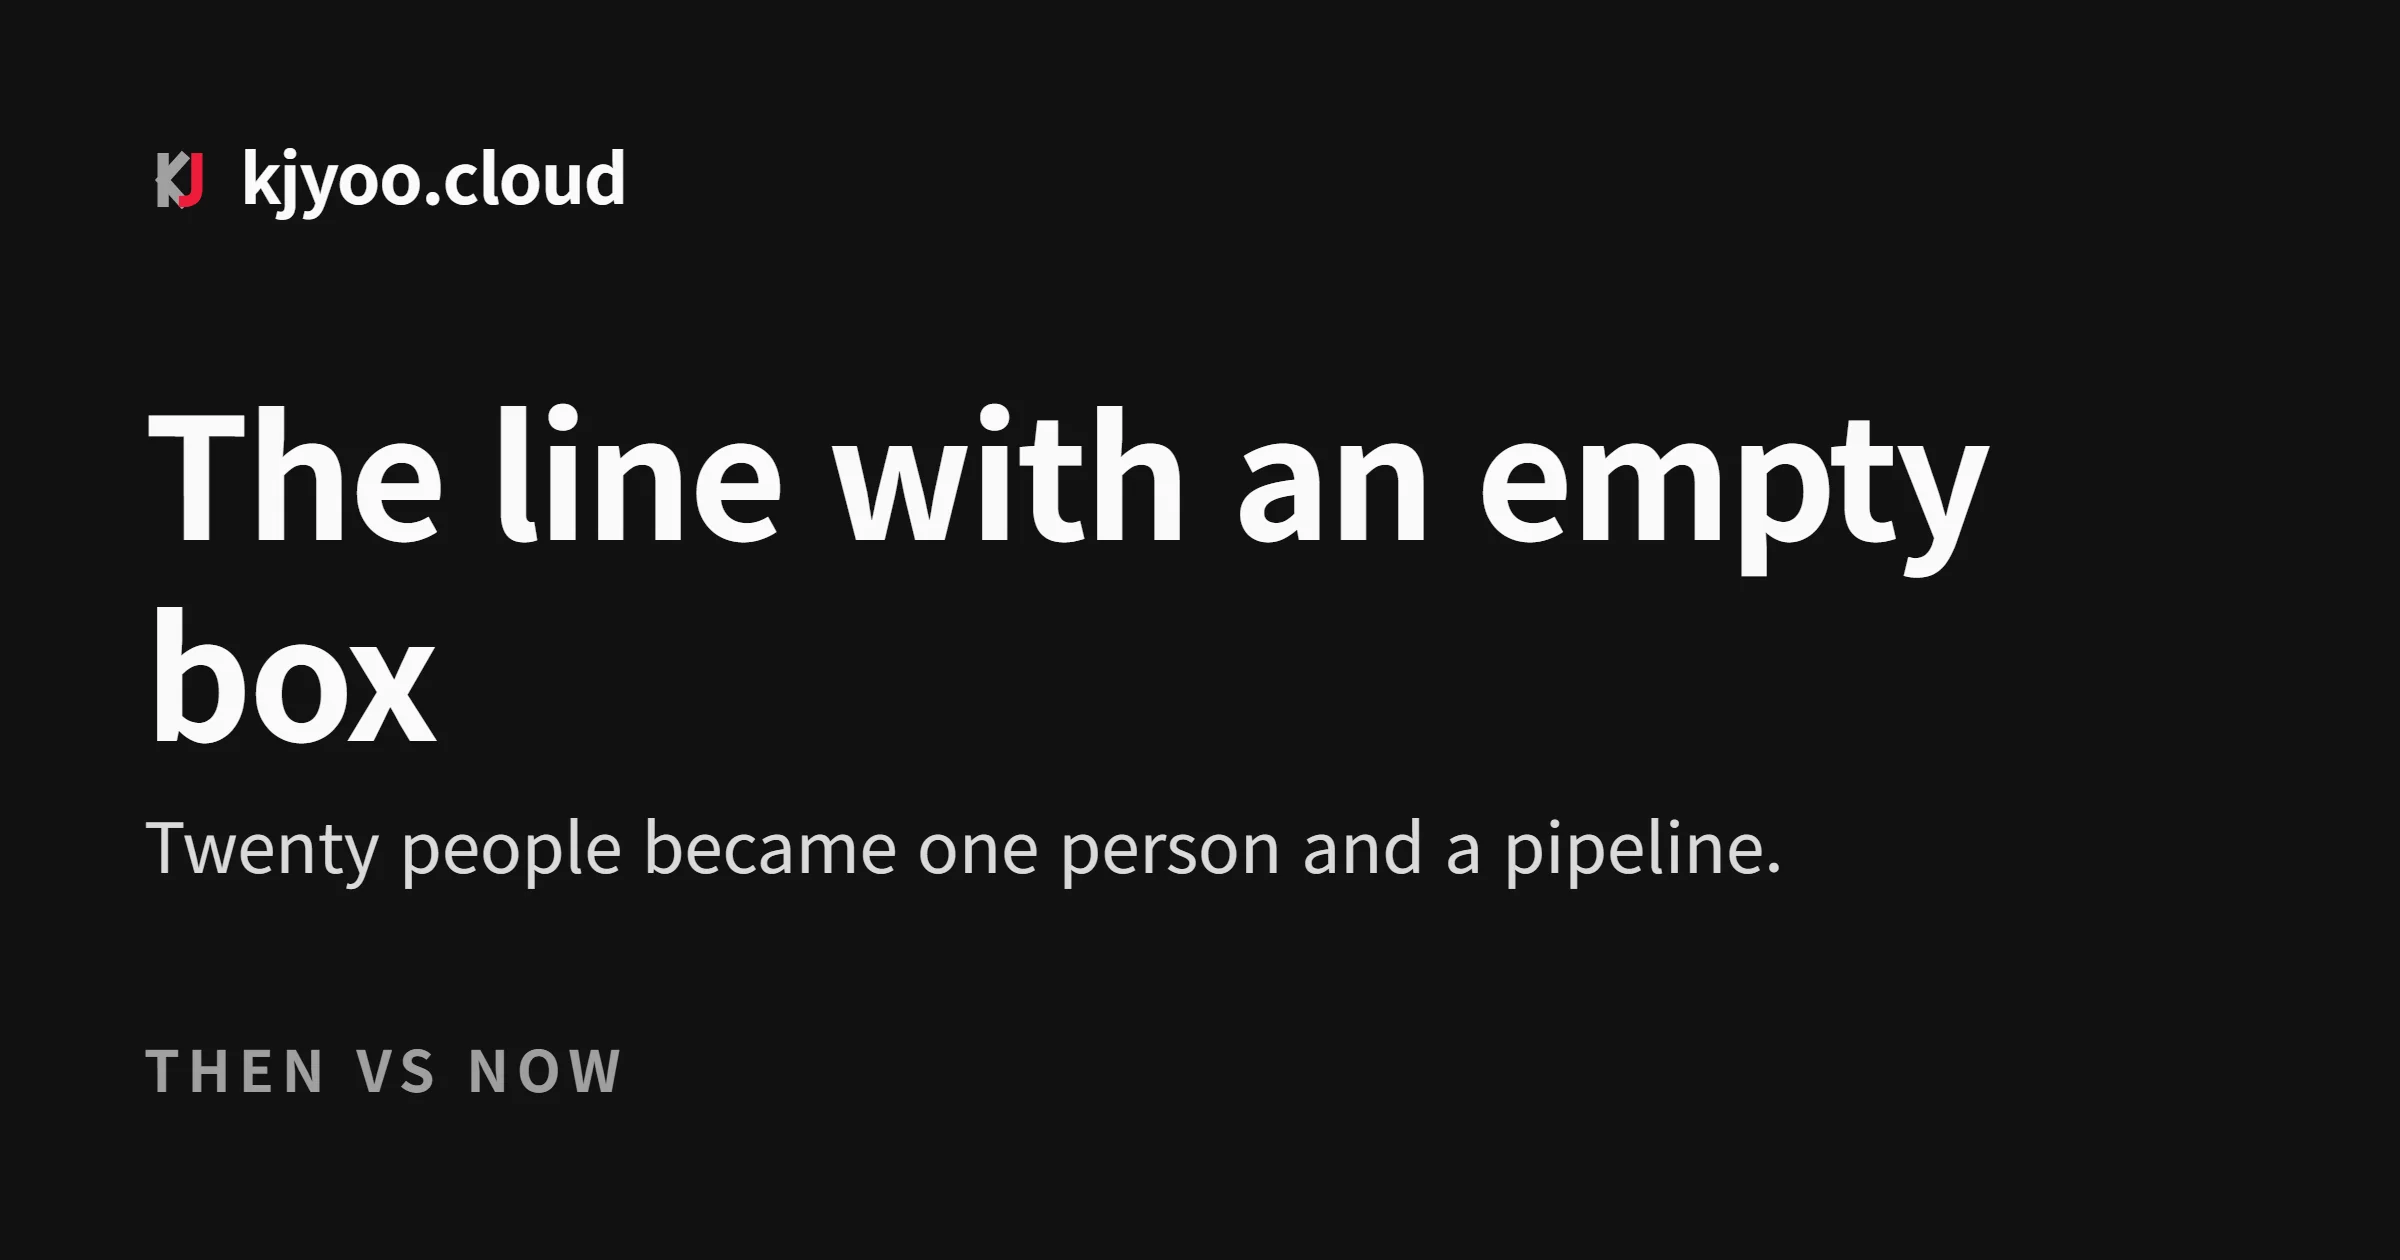
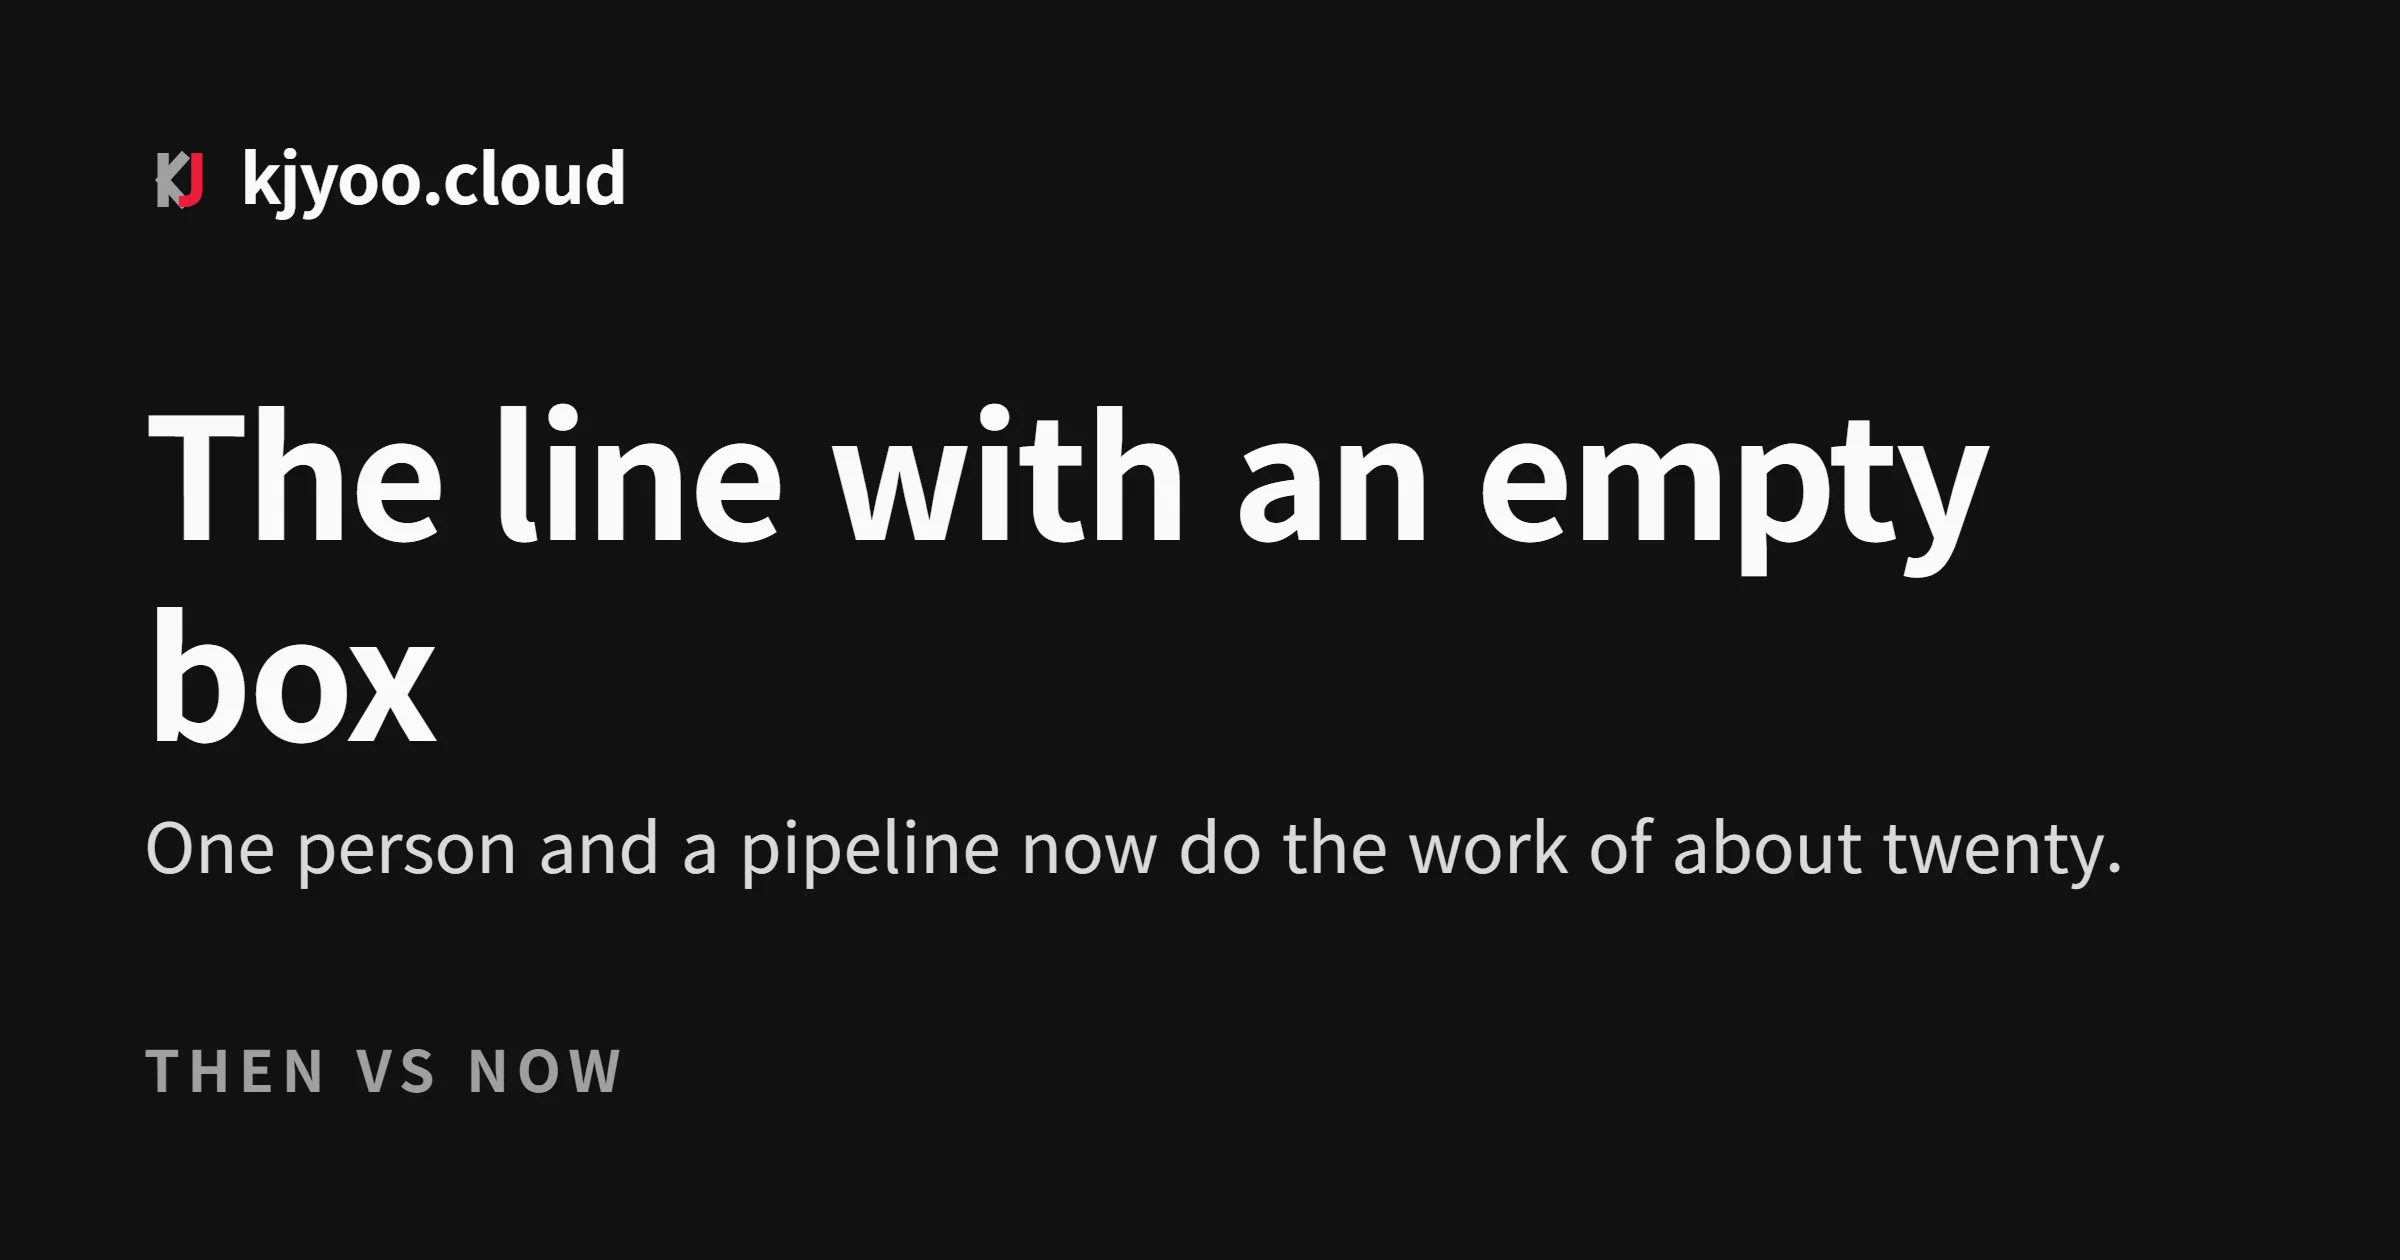
최종 재감리 결함 3건 정정 (G-1~G-3)
G-1: 홈 then-now 카드 문안에서 "한 사람" 주어 복원. 영문 주어 도치(Twenty
people became one pipeline)와 about 누락도 함께 정정.
G-2: OG then-now 부제 비문(주어-서술어 불일치)과 사실 오류(도해 "나+에이전트
10여"와 불일치) 정정. ko/en 모두 비서실장 확정 문안으로 교체.
G-3: og-render.mjs 의 to_webp.py 경로를 환경변수(TO_WEBP) + 홈 디렉토리
기준 문서화된 기본 규약으로 전환, 저장소에 사용자 절대경로 제거. README.md
로컬 경로도 정리.

검증: build.mjs 0, og-build.mjs 재생성 10/10 md5 결정적, 카드 3종 3줄
동일(1280/375px), OG 부제 자수 상한 이내(ko 30/en 62), 17경로 200,
특수문자 0, EN 페이지 한국어 노출 0, then-now/system 도해 가로 넘침 0,
.prose 간격 24px 유지, deploy.mjs --preview 38건 전부 통과, sync-notion
--push 변경 2건만(G-1 문구) 반영. 본 사이트/n8n 무영향.

Changed region(s): [[0.0625, 0.65, 0.875, 0.7119]]

diff --git a/README.md b/README.md
@@ -65,7 +65,7 @@ dist/                   빌드 산출물. 커밋하지 않는다
 
 ## 작업 위치 주의
 
-**이 저장소는 로컬(`C:\Users\kj530\dev\kjyoo-cloud`)에만 둔다.**
+**이 저장소는 로컬 작업 폴더에만 둔다(Google Drive Stream 밖).**
 
 Google Drive Stream(`H:`) 에서는 Node 의 `cpSync` 가 프로세스를 크래시시킨다(exit `-1073740791`, STATUS_STACK_BUFFER_OVERRUN). 2026-09-01 실측. 기획 문서만 Drive 에 두고 코드는 여기에 둔다.
 
